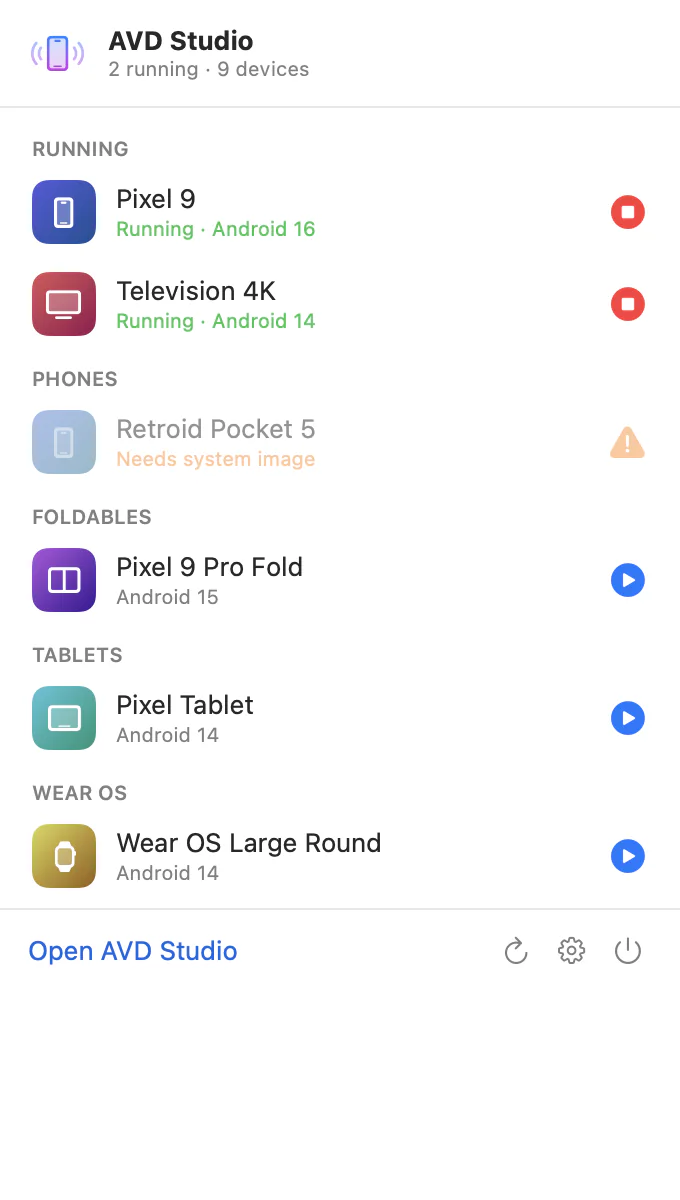
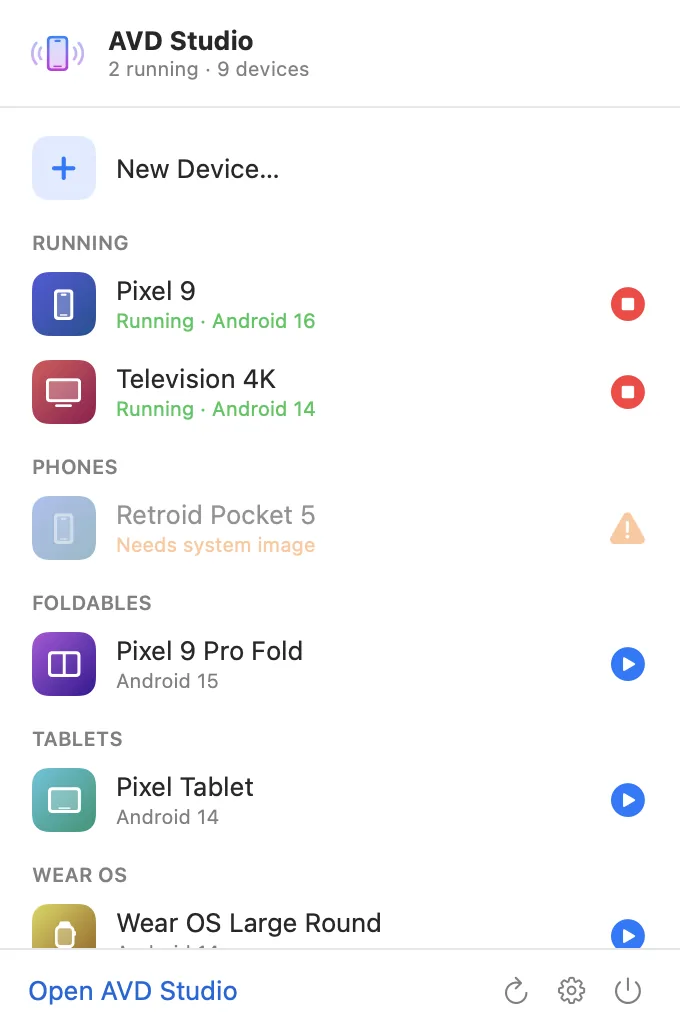
docs: refresh screenshots in the README and on the website
The menu bar popover images were from before the list fix and the New Device entry; the website's setup
image still showed the old setup screen. Regenerated from the current screenshot references, with the new
sizes in the HTML (popover 680 x 1030, setup 1000 x 790) and updated alt text and caption. The README gains
the New Virtual Device and Set up Android sheets.

diff --git a/website/index.html b/website/index.html
@@ -177,9 +177,9 @@
 
           <figure>
             <div class="shot shot-light">
-              <img src="assets/setup-light-1000.webp" width="1000" height="789" loading="lazy" decoding="async" alt="AVD Studio's setup screen reading Android SDK not found. It lists sdkmanager, avdmanager, emulator and adb as missing, with buttons to choose the SDK folder, copy the Homebrew install command and check again.">
+              <img src="assets/setup-light-1000.webp" width="1000" height="790" loading="lazy" decoding="async" alt="AVD Studio's setup screen reading Android SDK not found. It lists sdkmanager, avdmanager, emulator and adb as missing, with an Install Automatically button, a button for an SDK you already have, and Check Again.">
             </div>
-            <figcaption><strong>A clear first run</strong>No Android SDK found? AVD Studio lists the tools it is missing, and lets you choose a folder, copy the Homebrew command or check again.</figcaption>
+            <figcaption><strong>A clear first run</strong>No Android SDK found? AVD Studio lists the tools it is missing and can install them for you, or you can point it to an SDK you already have.</figcaption>
           </figure>
         </div>
       </div>
@@ -209,7 +209,7 @@
           <div class="popover">
             <picture>
               <source media="(prefers-color-scheme: light)" srcset="assets/menu-bar-light-680.webp">
-              <img src="assets/menu-bar-dark-680.webp" width="680" height="1200" loading="lazy" decoding="async" alt="The AVD Studio menu bar popover. Two running emulators have stop buttons. Phones, foldables, tablets and Wear OS devices follow with play buttons, and an Open AVD Studio link sits at the bottom.">
+              <img src="assets/menu-bar-dark-680.webp" width="680" height="1030" loading="lazy" decoding="async" alt="The AVD Studio menu bar popover. A New Device entry sits on top. Two running emulators have stop buttons. Phones, foldables, tablets and Wear OS devices follow with play buttons, and an Open AVD Studio link sits at the bottom.">
             </picture>
           </div>
         </div>

diff --git a/README.md b/README.md
@@ -51,6 +51,18 @@
   </picture>
 </p>
 
+<p align="center">
+  <picture>
+    <source media="(prefers-color-scheme: dark)" srcset="docs/images/create-dark.png">
+    <img src="docs/images/create-light.png" width="380" alt="The New Virtual Device sheet: type, hardware, Android version, name, RAM, storage and SD card">
+  </picture>
+  &nbsp;&nbsp;
+  <picture>
+    <source media="(prefers-color-scheme: dark)" srcset="docs/images/setup-dark.png">
+    <img src="docs/images/setup-light.png" width="380" alt="The Set up Android sheet listing the commands it will run and asking you to accept the Android SDK License Agreement">
+  </picture>
+</p>
+
 ## Requirements
 
 - An Apple Silicon Mac running macOS 14 (Sonoma) or newer.
